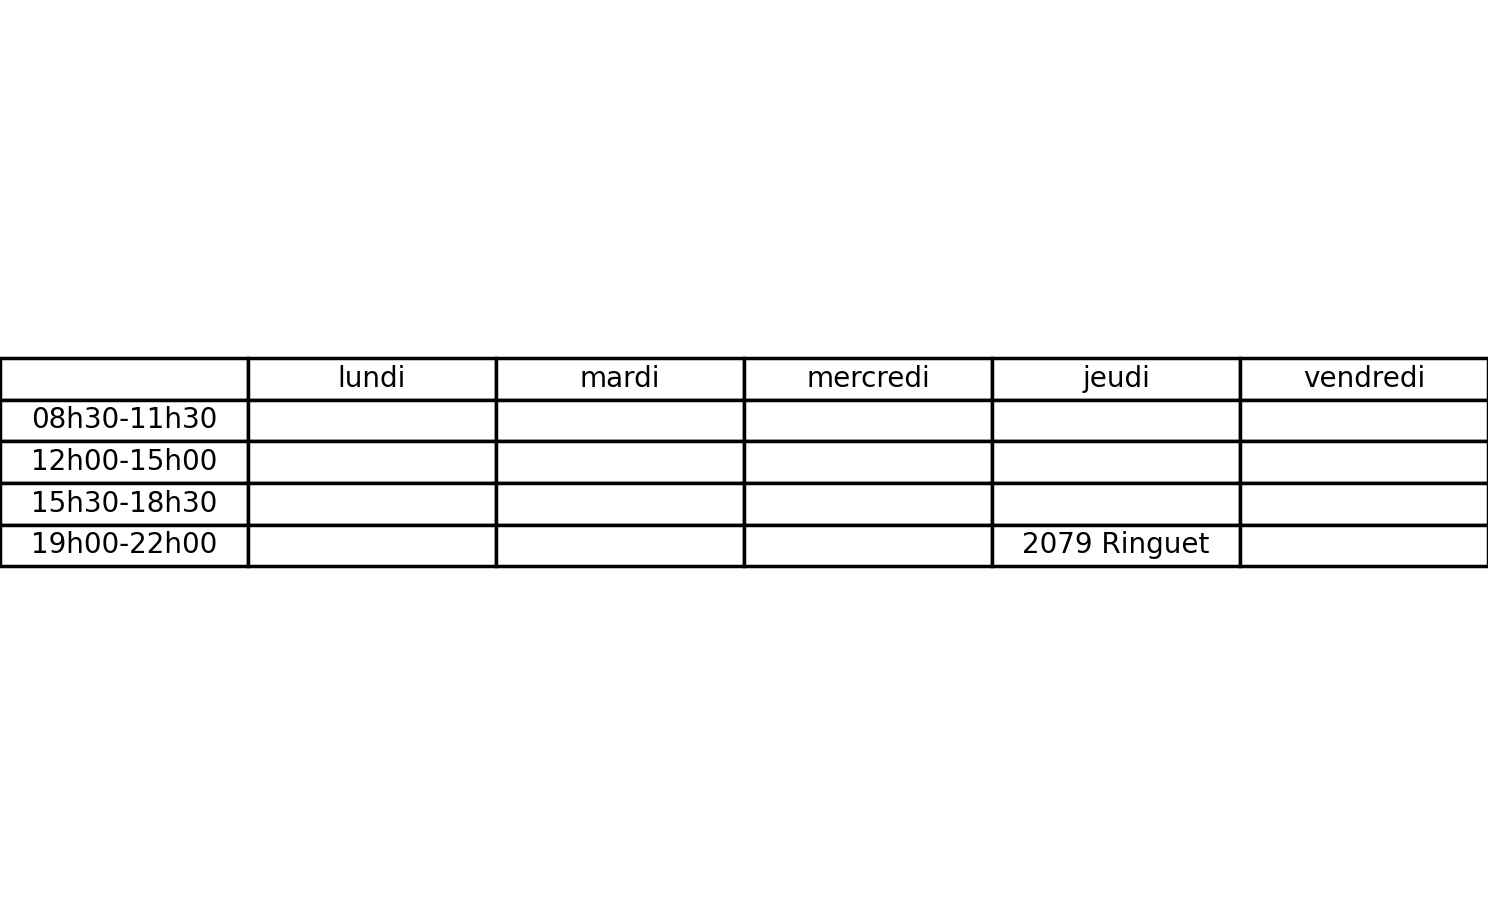
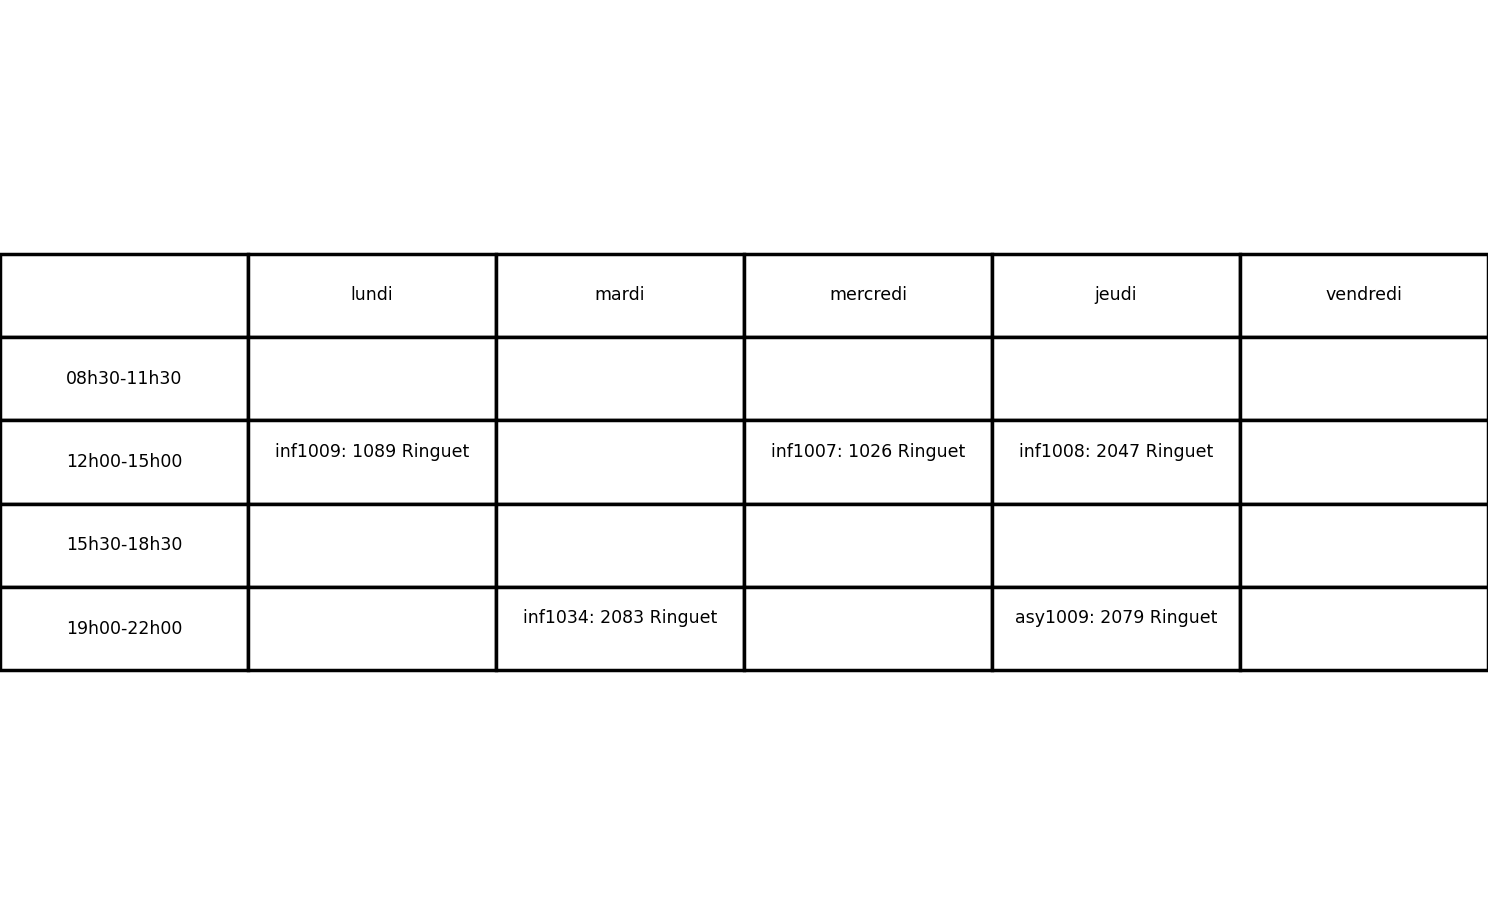
now supports multiple classes in the schedule maker!

Changed region(s): [[0.0, 0.2727, 1.0, 0.7273]]

diff --git a/bot.py b/bot.py
@@ -78,28 +78,35 @@ async def get_horaire(ctx, sigle: str, session: str, annee=None):
 
         await ctx.send(embed=embed)
 
-@bot.command(name='img_horaire', help='[sigle] [session]')
-async def get_img_horaire(ctx, sigle: str, session: str):
+@bot.command(name='img_horaire', help='[session] [sigles séparés par des espaces]')
+async def get_img_horaire(ctx, session: str, *sigles: str):
     annee = str(datetime.datetime.now().year)
     try:
         index_session = sessions.index(session) + 1
     except ValueError:
         await ctx.send(f'`{session}` n\'est pas une session valide.\n Essayez plutôt `hiver`, `été`, ou `automne`.')
 
-    cours = Cours(sigle)
-    try:
-        success = cours.fetch_horaire(index_session, annee)
-    except Exception:
-        err_tace = traceback.format_exc()
-        await ctx.send(f':skull: Bon t\'as cassé le bot, voici le message d\'erreur ```{err_tace}```')
+    fail_lst = []
+    cours_lst = []
+    for sigle in sigles:
+        cours = Cours(sigle)
+        try:
+            if cours.fetch_horaire(index_session, annee):
+                cours_lst.append(cours)
+            else:
+                fail_lst.append(cours)
+        except Exception:
+            err_tace = traceback.format_exc()
+            await ctx.send(f':skull: Bon t\'as cassé le bot, voici le message d\'erreur ```{err_tace}```')
 
-    if not success:
-        print(cours.url)
-        await ctx.send(f'L\'horaire de la session {session} {annee} pour le cours {sigle} n\'est pas encore publié.')
+    if fail_lst:
+        for fail in fail_lst:
+            print(fail.url)
+            await ctx.send(f'L\'horaire de la session {session} {annee} pour le cours {fail.sigle} n\'est pas encore publié.')
+
+    if Cours._horaire_text_table(cours_lst):
+        await ctx.send(file=discord.File('horaire_img.png'))
     else:
-        if cours.horaire():
-            await ctx.send(file=discord.File('horaire_img.png'))
-        else:
-            await ctx.send(f'Il y a eu un problème dans la génération d\'image')
+        await ctx.send(f'Il y a eu un problème dans la génération d\'image')
 
 bot.run(token)

diff --git a/siglfinder.py b/siglfinder.py
@@ -84,27 +84,18 @@ class Cours:
             self.horaires = [(jour, heure, lieu)]
         return True
 
-    def horaire(self):
+    def horaire_cours(self) -> bool:
         """
         Returns the schedule for the current Cours instance.
         """
-        jour, heure, lieu = self.horaires[0]
-        return Cours._horaire_text_table(jour, heure, lieu)
+        return Cours._horaire_text_table([self])
 
     @staticmethod
-    def _horaire_text_table(jour, heure, lieu) -> bool:
+    def _horaire_text_table(cours) -> bool:
         """
         Gets the schedule as a table.
         """
         # TODO enlever la partie transparente de l'image
-        if heure[:2] == '08':
-            periode = 0
-        elif heure[:2] == '12':
-            periode = 1
-        elif heure[:2] == '15':
-            periode = 2
-        elif heure[:2] == '19':
-            periode = 3
 
         fig = plt.figure(dpi=250)
         ax = fig.add_subplot(1,1,1)
@@ -117,7 +108,21 @@ class Cours:
             'jeudi': ['','','', ''],
             'vendredi': ['','','', ''],
         }
-        semaine[jour][periode] = lieu
+
+        for c in cours:
+            for h in c.horaires:
+                jour, heure, lieu = h
+
+                if heure[:2] == '08':
+                    periode = 0
+                elif heure[:2] == '12':
+                    periode = 1
+                elif heure[:2] == '15':
+                    periode = 2
+                elif heure[:2] == '19':
+                    periode = 3
+
+                semaine[jour][periode] += f'{c.sigle}: {lieu}\n'
 
         dc = pd.DataFrame(semaine)
 
@@ -131,7 +136,7 @@ class Cours:
             cellLoc='center'
         )
         table.set_fontsize(14)
-        table.scale(2,1)
+        table.scale(2,2)
         ax.axis('off')
 
         ax.patch.set_visible(False)
